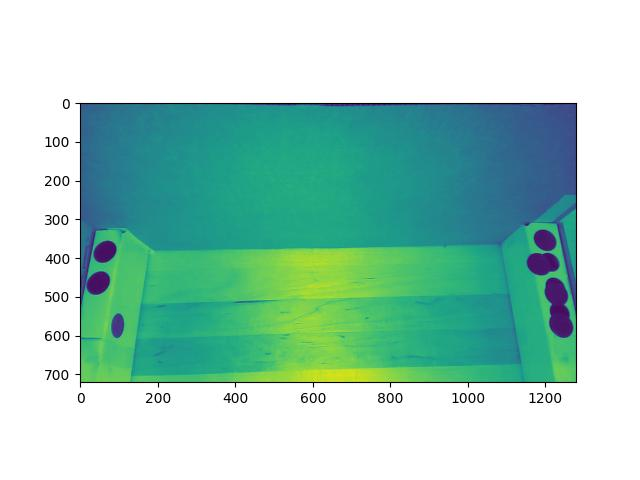
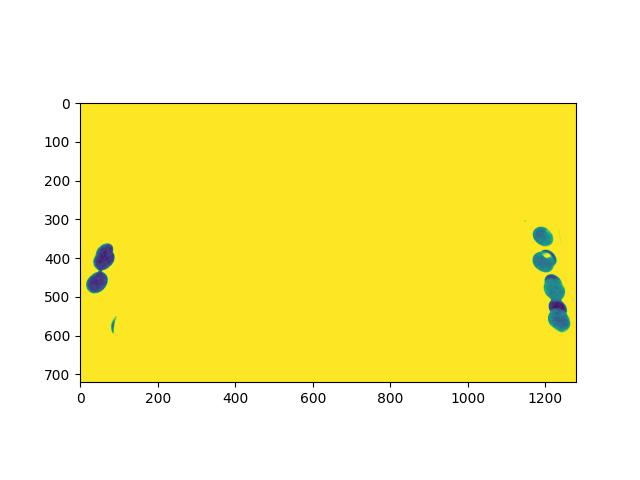
update
test

diff --git a/test.py b/test.py
@@ -1,27 +1,33 @@
-import cv2
 import numpy as np
+import cv2
 
-# Load image
 testjpg='./Training Images/White/White_14.jpg'
-img = cv2.imread(testjpg)
 
-# Convert the image to grayscale
-gray = cv2.cvtColor(img, cv2.COLOR_BGR2GRAY)
+image = cv2.imread(testjpg)
+original = image.copy()
+image = cv2.cvtColor(image, cv2.COLOR_BGR2HSV)
+lower = np.array([0, 0, 0], dtype="uint8")
+upper = np.array([180, 255, 40], dtype="uint8")
+mask = cv2.inRange(image, lower, upper)
+mask = 255 - mask
+output = cv2.bitwise_and(image, image, mask = mask)
 
-# Create a SimpleBlobDetector object
-detector = cv2.SimpleBlobDetector_create()
+# Find contours
+cnts = cv2.findContours(mask, cv2.RETR_EXTERNAL, cv2.CHAIN_APPROX_SIMPLE)
+# Extract contours depending on OpenCV version
+cnts = cnts[0] if len(cnts) == 2 else cnts[1]
 
-# Detect blobs in the image
-keypoints = detector.detect(gray)
+# Iterate through contours and filter by the number of vertices 
+for c in cnts:
+    perimeter = cv2.arcLength(c, True)
+    approx = cv2.approxPolyDP(c, 0.04 * perimeter, True)
+    if len(approx) > 5:
+        cv2.drawContours(original, [c], -1, (36, 255, 12), -1)
 
-# Draw circles on the original image
-for keypoint in keypoints:
-    x = int(keypoint.pt[0])
-    y = int(keypoint.pt[1])
-    r = int(keypoint.size / 2)
-    cv2.circle(img, (x, y), r, (0, 255, 0), 2)
-
-# Display the image
-cv2.imshow("Detected Circles", img)
-cv2.waitKey(0)
-cv2.destroyAllWindows()
+cv2.imshow('mask', mask)
+cv2.imshow('original', original)
+cv2.imshow('output', output)
+cv2.imwrite('mask.png', mask)
+cv2.imwrite('original.png', original)
+cv2.imshow('output.png', output)
+cv2.waitKey()

diff --git a/script.py b/script.py
@@ -18,14 +18,17 @@ def CircleDetector(path_to_img : str):
 
 #print(whiteImgs[1])
 
-testjpg='./Training Images/White/White_6.jpg'
+testjpg='./Training Images/White/White_9.jpg'
+#testjpg='./Training Images/White/6_some_holes_covered_1_partial_with_light.jpg'
 
 verti_line_mat = np.float32([[-1,2,-1],
                             [-1,2,-1],
                             [-1,2,-1]])
 
 MainImgBGR = cv2.imread(testjpg,cv2.IMREAD_UNCHANGED)
-img_hsv = cv2.cvtColor(MainImgBGR,cv2.COLOR_BGR2GRAY)
+img_hsv=cv2.GaussianBlur(MainImgBGR, (7, 7), 0) 
+img_hsv = cv2.cvtColor(img_hsv,cv2.COLOR_BGR2GRAY)
+img_hsv = cv2.convertScaleAbs(img_hsv,2,10)
 plt.imshow(img_hsv)
 plt.savefig('test.jpg')
 plt.show()

diff --git a/live_processing.py b/live_processing.py
@@ -1,3 +1,16 @@
+import os
+import numpy as np
+from numpy.typing import NDArray
+import matplotlib.pyplot as plt
+import cv2
+from IPython.display import display, Javascript
+from base64 import b64decode, b64encode
+import PIL
+import io
+from js2py import eval_js
+
+
+testjpg='./Training Images/White/White_6.jpg'
 # function to convert the JavaScript object into an OpenCV image
 def js_to_image(js_reply):
   """
@@ -96,7 +109,7 @@ except Exception as err:
   print(str(err))
 
 from IPython.display import display, Javascript
-from google.colab.output import eval_js
+from js2py import eval_js
 from base64 import b64decode
 
 def re_encode_video(video_path):
